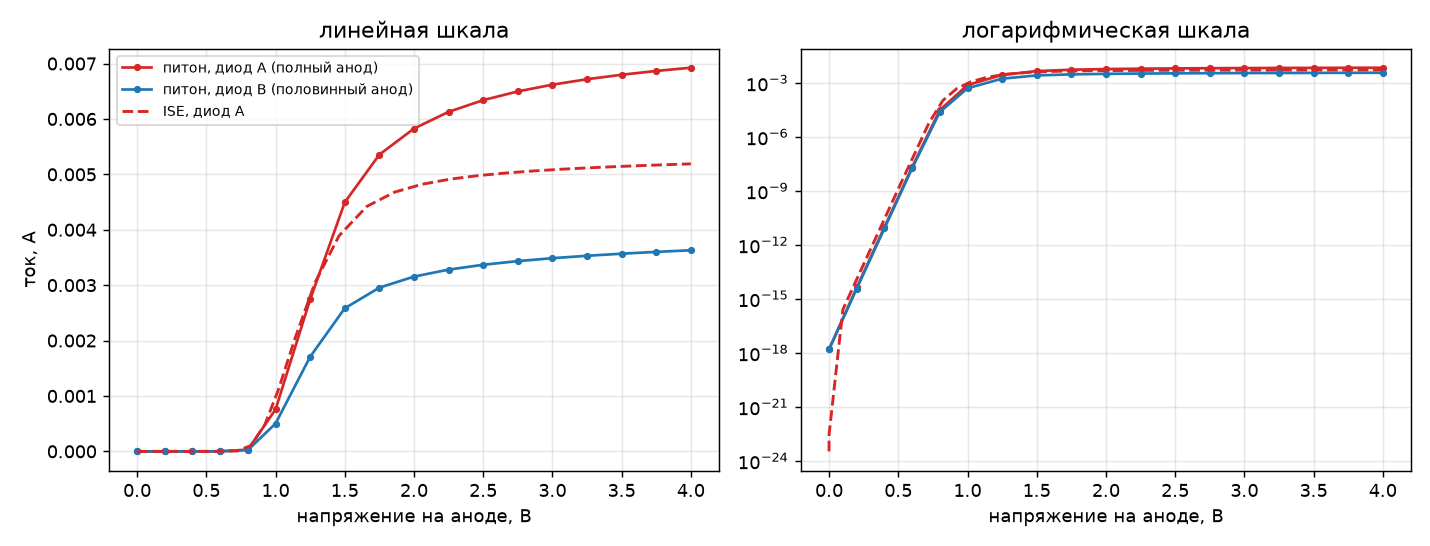
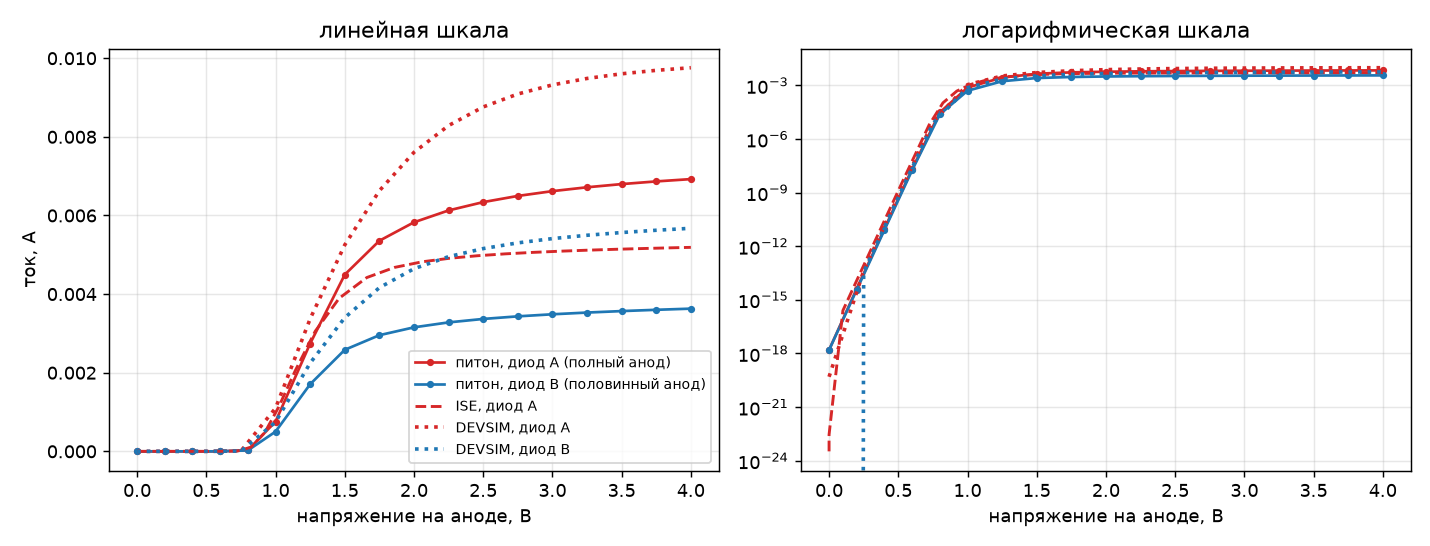
DEVSIM: подвижность Коги-Томаса с насыщением скорости по |E| на тетраэдре
Элементная модель тока (3D-аналог mos_physics), диод B сходится до 4 В.
run.py: --mobility element|field|constant, замер памяти работает и на Windows.

diff --git a/tools/dev3d.py b/tools/dev3d.py
@@ -1,5 +1,10 @@
 # -*- coding: utf-8 -*-
-"""3D-диод в DEVSIM: загрузка сетки Gmsh, легирование, равновесие, развёртка."""
+"""3D-диод в DEVSIM: загрузка сетки Gmsh, легирование, равновесие, развёртка.
+
+Подвижность — та же, что в своём решателе (dd3d.py): Коги-Томас по легированию
+и насыщение скорости по полю вдоль ребра. Стандартный simple_physics берёт
+постоянные 400/200 см2/(В*с), и ток при 4 В выходит вчетверо больше, чем у ISE.
+"""
 
 import devsim as ds
 from devsim.python_packages.simple_physics import (
@@ -12,6 +17,98 @@ DEV, REG = "diode", "si"
 SOLVER = "direct"           # "iterative" (GMRES) экономит память, но под смещением врёт
 RELERR = 1e-8               # на грубых 3D-сетках Ньютон застревает около 1e-5 — тогда ослабить
 CONTACTS = ("anode", "cathode")
+MOBILITY = "element"        # "element" — насыщение по полному |E| на тетраэдре (по умолчанию),
+                            # "field" — по проекции поля на ребро, "constant" — 400/200 из simple_physics
+VSAT = 1.07e7               # см/с
+# Коги-Томас: mu_min, mu_max, N_ref, alpha — те же числа, что в dd3d.mu_doping
+CT = {"n": (68.5, 1414.0, 9.2e16, 0.711), "p": (44.9, 470.5, 2.23e17, 0.719)}
+BETA = {"n": 2.0, "p": 1.0}
+
+
+def mobility_doping(kind):
+    """Подвижность по легированию в узлах и её среднее на ребре (edge-модель mu_dop_<kind>_e)."""
+    mn, mx, nref, a = CT[kind]
+    name = "mu_dop_" + kind
+    CreateNodeModel(DEV, REG, name, "%g + %g/(1 + pow(pow(NetDoping^2, 0.5)/%g, %g))"
+                    % (mn, mx - mn, nref, a))
+    ds.edge_from_node_model(device=DEV, region=REG, node_model=name)
+    ds.edge_model(device=DEV, region=REG, name=name + "_e",
+                  equation="0.5*(%s@n0 + %s@n1)" % (name, name))
+    return name + "_e"
+
+
+EN = ("@en0", "@en1", "@en2", "@en3")       # узлы тетраэдра в элементных моделях
+
+
+def _elem(name, expr, variables=()):
+    ds.element_model(device=DEV, region=REG, name=name, equation=expr)
+    for v in variables:
+        for e in EN:
+            ds.element_model(device=DEV, region=REG, name="%s:%s%s" % (name, v, e),
+                             equation="diff(%s, %s%s)" % (expr, v, e))
+
+
+def element_currents():
+    """Ток на элементах с насыщением скорости по полному полю.
+
+    На ребре видна только проекция поля, а рёбра тетраэдров идут под углом к току —
+    насыщение недооценивается, ток завышен. Здесь вектор поля собирается на каждом
+    тетраэдре из его рёбер, подвижность берётся от |E|, ток — тот же поток
+    Шарфеттера-Гуммеля, но элементной моделью (как mos_physics.py, только в 3D).
+    """
+    ds.element_from_edge_model(edge_model="ElectricField", device=DEV, region=REG)
+    ds.element_from_edge_model(edge_model="ElectricField", device=DEV, region=REG,
+                               derivative="Potential")
+    ds.element_model(device=DEV, region=REG, name="Emag",
+                     equation="pow(ElectricField_x^2 + ElectricField_y^2 + ElectricField_z^2 + 1, 0.5)")
+    for e in EN:
+        ds.element_model(device=DEV, region=REG, name="Emag:Potential" + e, equation=(
+            "(ElectricField_x*ElectricField_x:Potential{0} + ElectricField_y*ElectricField_y:Potential{0}"
+            " + ElectricField_z*ElectricField_z:Potential{0})/Emag").format(e))
+    for kind in "np":
+        mu0 = mobility_doping(kind)
+        if BETA[kind] == 2.0:
+            mu = "%s/pow(1 + (%s*Emag/%g)^2, 0.5)" % (mu0, mu0, VSAT)
+        else:
+            mu = "%s/(1 + %s*Emag/%g)" % (mu0, mu0, VSAT)
+        _elem("mu_%s_elem" % kind, mu, ("Potential",))
+    Jn = ("ElectronCharge*mu_n_elem*EdgeInverseLength*V_t*"
+          "kahan3(Electrons@en1*Bern01, Electrons@en1*vdiff, -Electrons@en0*Bern01)")
+    Jp = ("-ElectronCharge*mu_p_elem*EdgeInverseLength*V_t*"
+          "kahan3(Holes@en1*Bern01, -Holes@en0*Bern01, -Holes@en0*vdiff)")
+    _elem("ElectronCurrentElem", Jn, ("Electrons", "Holes", "Potential"))
+    _elem("HoleCurrentElem", Jp, ("Electrons", "Holes", "Potential"))
+    # те же уравнения непрерывности, но поток берётся с элементов
+    ds.equation(device=DEV, region=REG, name="ElectronContinuityEquation", variable_name="Electrons",
+                time_node_model="NCharge", node_model="ElectronGeneration",
+                element_model="ElectronCurrentElem", variable_update="positive")
+    ds.equation(device=DEV, region=REG, name="HoleContinuityEquation", variable_name="Holes",
+                time_node_model="PCharge", node_model="HoleGeneration",
+                element_model="HoleCurrentElem", variable_update="positive")
+    for c in CONTACTS:
+        ds.contact_equation(device=DEV, contact=c, name="ElectronContinuityEquation",
+                            node_model="%snodeelectrons" % c, element_current_model="ElectronCurrentElem")
+        ds.contact_equation(device=DEV, contact=c, name="HoleContinuityEquation",
+                            node_model="%snodeholes" % c, element_current_model="HoleCurrentElem")
+
+
+def mobility_expr(kind):
+    """Подвижность на ребре как строка-выражение для DEVSIM.
+
+    Подставляется прямо в формулу тока Шарфеттера-Гуммеля, поэтому производные
+    по потенциалу DEVSIM берёт сам, символьно, и Ньютон остаётся точным.
+    """
+    mn, mx, nref, a = CT[kind]
+    name = "mu_dop_" + kind
+    CreateNodeModel(DEV, REG, name, "%g + %g/(1 + pow(pow(NetDoping^2, 0.5)/%g, %g))"
+                    % (mn, mx - mn, nref, a))
+    ds.edge_from_node_model(device=DEV, region=REG, node_model=name)
+    mu0 = "(0.5*(%s@n0 + %s@n1))" % (name, name)
+    e2 = "(((Potential@n0 - Potential@n1)*EdgeInverseLength)^2)"
+    if BETA[kind] == 2.0:
+        return "(%s/pow(1 + %s^2*%s/%g, 0.5))" % (mu0, mu0, e2, VSAT ** 2)
+    # beta = 1: |E| сглажен на 1 В/см, чтобы производная в нуле поля была конечной
+    return "(%s/(1 + %s*pow(%s + 1, 0.5)/%g))" % (mu0, mu0, e2, VSAT)
 
 
 def load(msh):
@@ -42,9 +139,14 @@ def drift_diffusion():
     CreateSolution(DEV, REG, "Holes")
     ds.set_node_values(device=DEV, region=REG, name="Electrons", init_from="IntrinsicElectrons")
     ds.set_node_values(device=DEV, region=REG, name="Holes", init_from="IntrinsicHoles")
-    CreateSiliconDriftDiffusion(DEV, REG)
+    if MOBILITY == "field":
+        CreateSiliconDriftDiffusion(DEV, REG, mu_n=mobility_expr("n"), mu_p=mobility_expr("p"))
+    else:
+        CreateSiliconDriftDiffusion(DEV, REG)
     for c in CONTACTS:
         CreateSiliconDriftDiffusionAtContact(DEV, REG, c)
+    if MOBILITY == "element":
+        element_currents()
     ds.solve(type="dc", solver_type=SOLVER, absolute_error=1e10, relative_error=RELERR, maximum_iterations=40)
 
 

diff --git a/Lab3_diode_3D/devsim/run.py b/Lab3_diode_3D/devsim/run.py
@@ -4,17 +4,20 @@
     python run.py A              # диод A, мелкая сетка (~104 тыс. узлов)
     python run.py B              # диод B
     python run.py A --scale 1.5  # сетка в 1.5 раза крупнее (~34 тыс. узлов)
+    python run.py A --scale 2 --relerr 1e-5   # ~15 тыс. узлов, ~2 ГБ — проверка на ноутбуке
 
 Что делает: строит сетку (tools/mesh3d.py, кэшируется в mesh_<диод>_<scale>.msh),
 решает равновесие, включает дрейф-диффузию и разворачивает анод до --vmax.
-Пишет iv_<диод>_<scale>.json (V, I) и поле diode_<диод>_<scale>.tec (Tecplot ASCII).
+Пишет iv_<диод>_<scale>_<подвижность>.json (V, I) и поле diode_*.tec (Tecplot ASCII).
+Подвижность по умолчанию — element: Коги-Томас + насыщение скорости по полному |E|
+на тетраэдре (см. tools/dev3d.py, почему не по ребру).
 
 Память — главное ограничение. Прямой решатель (UMFPACK) обязателен: итерационный
 GMRES под смещением выдаёт «сходимость» на неправильном решении. Замеры на M1:
 34 тыс. узлов — около 2.6 ГБ, 104 тыс. — оценка около 10 ГБ. На 8 ГБ мелкая
 сетка не помещается, считать на машине с 16–32 ГБ. Видеокарта не используется.
 """
-import argparse, json, os, sys, time, resource
+import argparse, json, os, sys, time
 
 HERE = os.path.dirname(os.path.abspath(__file__))
 sys.path.insert(0, os.path.join(HERE, "..", "..", "tools"))
@@ -25,6 +28,24 @@ ANODE = {"A": (0.0, 1.0, 1.0, 2.0), "B": (0.5, 1.0, 1.0, 2.0)}
 
 
 def peak_mb():
+    """Пиковая память процесса, МБ. На Windows модуля resource нет — через WinAPI."""
+    if sys.platform == "win32":
+        import ctypes
+        from ctypes import wintypes
+
+        class PMC(ctypes.Structure):
+            _fields_ = [("cb", wintypes.DWORD), ("PageFaultCount", wintypes.DWORD),
+                        ("PeakWorkingSetSize", ctypes.c_size_t), ("WorkingSetSize", ctypes.c_size_t),
+                        ("QuotaPeakPagedPoolUsage", ctypes.c_size_t), ("QuotaPagedPoolUsage", ctypes.c_size_t),
+                        ("QuotaPeakNonPagedPoolUsage", ctypes.c_size_t), ("QuotaNonPagedPoolUsage", ctypes.c_size_t),
+                        ("PagefileUsage", ctypes.c_size_t), ("PeakPagefileUsage", ctypes.c_size_t)]
+        k32, psapi = ctypes.WinDLL("kernel32"), ctypes.WinDLL("psapi")
+        k32.GetCurrentProcess.restype = wintypes.HANDLE
+        psapi.GetProcessMemoryInfo.argtypes = [wintypes.HANDLE, ctypes.POINTER(PMC), wintypes.DWORD]
+        c = PMC(); c.cb = ctypes.sizeof(PMC)
+        psapi.GetProcessMemoryInfo(k32.GetCurrentProcess(), ctypes.byref(c), c.cb)
+        return c.PeakWorkingSetSize / 1024 / 1024
+    import resource
     r = resource.getrusage(resource.RUSAGE_SELF).ru_maxrss
     return r / 1024 / 1024 if sys.platform == "darwin" else r / 1024
 
@@ -36,10 +57,14 @@ def main():
     ap.add_argument("--vmax", type=float, default=4.0)
     ap.add_argument("--step", type=float, default=0.1)
     ap.add_argument("--solver", default="direct", choices=["direct", "iterative"])
+    ap.add_argument("--mobility", default="element", choices=["element", "field", "constant"],
+                    help="Коги-Томас + насыщение скорости: element — по |E| на тетраэдре, "
+                         "field — по проекции на ребро; constant — 400/200")
     ap.add_argument("--relerr", type=float, default=1e-8, help="допуск Ньютона; на грубых сетках 1e-5")
     a = ap.parse_args()
 
     tag = "%s_%g" % (a.diode, a.scale)
+    mtag = "%s_%s" % (tag, a.mobility)
     msh = os.path.join(HERE, "mesh_%s.msh" % tag)
     if not os.path.exists(msh):
         k = a.scale
@@ -49,7 +74,7 @@ def main():
 
     import devsim as ds
     import dev3d
-    dev3d.SOLVER, dev3d.RELERR = a.solver, a.relerr
+    dev3d.SOLVER, dev3d.RELERR, dev3d.MOBILITY = a.solver, a.relerr, a.mobility
     t0 = time.time()
     dev3d.load(msh)
     dev3d.equilibrium()
@@ -57,10 +82,10 @@ def main():
     dev3d.drift_diffusion()
     print("дрейф-диффузия при 0 В: %.0f с, память %.0f МБ" % (time.time() - t0, peak_mb()), flush=True)
 
-    out = os.path.join(HERE, "iv_%s.json" % tag)
+    out = os.path.join(HERE, "iv_%s.json" % mtag)
     iv = dev3d.ramp(a.vmax, a.step, log=lambda s: print(s, flush=True))
     json.dump(iv, open(out, "w"))
-    ds.write_devices(file=os.path.join(HERE, "diode_%s.tec" % tag), type="tecplot")
+    ds.write_devices(file=os.path.join(HERE, "diode_%s.tec" % mtag), type="tecplot")
     print("готово за %.0f с, пиковая память %.0f МБ, ВАХ в %s"
           % (time.time() - t0, peak_mb(), out), flush=True)
 

diff --git a/Lab3_diode_3D/python/compare.py b/Lab3_diode_3D/python/compare.py
@@ -32,6 +32,13 @@ for tag, col, style in (("A", "tab:red", "--"), ("B", "tab:blue", "--")):
         for a in ax: a.plot(V, I, style, color=col, lw=1.6, label="ISE, диод " + tag)
     except Exception: pass
 
+for tag, col in (("A", "tab:red"), ("B", "tab:blue")):
+    p = os.path.join(HERE, "..", "devsim", "iv_%s_2_element.json" % tag)
+    if not os.path.exists(p): continue
+    import json
+    VI = np.array(json.load(open(p)))
+    for a in ax: a.plot(VI[:, 0], VI[:, 1], ":", color=col, lw=2, label="DEVSIM, диод " + tag)
+
 ax[0].set_xlabel("напряжение на аноде, В"); ax[0].set_ylabel("ток, А")
 ax[0].set_title("линейная шкала"); ax[0].grid(alpha=.3); ax[0].legend(fontsize=8)
 ax[1].set_yscale("log"); ax[1].set_xlabel("напряжение на аноде, В")

diff --git a/README.md b/README.md
@@ -346,37 +346,70 @@ python sweep.py "[0,1,1,2]"   A 10 14 9 4
 python sweep.py "[0.5,1,1,2]" B 10 14 9 4
 ```
 
-### DEVSIM: заготовка под мелкую сетку
+### DEVSIM: неструктурированная сетка
 
-Следующий шаг — тот же диод на неструктурированной сетке с настоящим
-сгущением к переходу и кромкам анода. Для этого взяты открытые пакеты
+Третий независимый расчёт — тот же диод на неструктурированной сетке с
+настоящим сгущением к переходу и кромкам анода. Для этого взяты открытые пакеты
 [DEVSIM](https://devsim.org) (решатель методом конечных объёмов, Python) и
 [Gmsh](https://gmsh.info) (сетка). Переход и анод встроены в геометрию как
 поверхности, поэтому ступенька легирования и край контакта ложатся точно на
 узлы ([tools/mesh3d.py](tools/mesh3d.py), [tools/dev3d.py](tools/dev3d.py)).
 
+**Подвижность — та же, что в своём решателе**: Коги — Томас по легированию и
+насыщение скорости. Стандартный модуль DEVSIM `simple_physics` берёт постоянные
+400/200 см²/(В·с), и ток при 4 В выходит 21.5 мА — вчетверо больше, чем у ISE.
+
+**Насыщение считается по полному полю на тетраэдре, а не по ребру.** Ток в
+методе конечных объёмов течёт по рёбрам, и проще всего брать поле как проекцию
+на ребро. На тензорной сетке своего решателя это честно — рёбра идут вдоль тока.
+А у тетраэдров рёбра торчат под углом, проекция меньше настоящего |E|, насыщение
+недооценивается, и ток завышен. Поэтому вектор поля собирается на каждом
+тетраэдре из его шести рёбер (`element_from_edge_model`), подвижность берётся
+от |E|, а ток — тот же поток Шарфеттера — Гуммеля, но элементной моделью с
+производными по всем четырём узлам. Так в DEVSIM сделан `mos_physics.py`,
+только там 2D.
+
+| диод A, ток при 4 В | 8.6 тыс. узлов | 15.5 тыс. узлов |
+|---|---|---|
+| постоянная подвижность | 21.5 мА | — |
+| насыщение по проекции на ребро | 12.1 мА | 11.4 мА |
+| **насыщение по \|E\| на тетраэдре** | 10.4 мА | **9.8 мА** |
+| для сравнения: ISE / свой решатель | 5.19 / 6.92 мА | |
+
+При сгущении сетки ток сходится сверху, примерно на 6% за шаг; где он
+остановится, покажет мелкая сетка. **Диод B в DEVSIM сходится до 4 В** — то,
+чего не удалось добиться от ISE. Контраст между диодами на сетке 15 тыс. узлов:
+
+| | DEVSIM | свой решатель | эталон |
+|---|---|---|---|
+| 2 В | B ниже A на 39% | 46% | 34% |
+| 3 В | B ниже A на **42%** | **47%** | **45%** |
+
+Кривые DEVSIM добавлены пунктиром на
+[график сравнения ВАХ](Lab3_diode_3D/results/вах_питон_против_ISE.png).
+ВАХ: [devsim/iv_A_2_element.json](Lab3_diode_3D/devsim/iv_A_2_element.json),
+[devsim/iv_B_2_element.json](Lab3_diode_3D/devsim/iv_B_2_element.json).
+
 Запуск одной командой — [devsim/run.py](Lab3_diode_3D/devsim/run.py):
 
 ```bash
 cd Lab3_diode_3D/devsim
-python run.py A                # мелкая сетка, около 104 тыс. узлов
-python run.py B
-python run.py A --scale 2.5 --relerr 1e-5   # грубая, около 8 тыс. узлов — проверка, что всё работает
+python run.py A --scale 2 --relerr 1e-5   # ~15 тыс. узлов, ~2 ГБ, 7 минут на M1
+python run.py A --scale 1.5               # ~34 тыс. узлов
+python run.py A                           # мелкая, ~104 тыс. узлов
+python run.py B                           # то же для диода B
 ```
 
 **Упор в память.** Нужен прямой решатель: итерационный GMRES под смещением
-сообщает о сходимости на неправильном решении. Прямой (UMFPACK) на 34 тыс. узлов
-занимает около 2.6 ГБ, на 104 тыс. — по оценке около 10 ГБ. На маке с 8 ГБ
-мелкая сетка не помещается, её надо считать на машине с 16–32 ГБ ОЗУ.
-Видеокарта DEVSIM не нужна, считается на процессоре.
+сообщает о сходимости на неправильном решении. Элементная модель тяжелее
+рёберной: 1.8–2.0 ГБ на 15 тыс. узлов. Мелкая сетка (104 тыс.) на маке с 8 ГБ не
+помещается — её считать на машине с 32 ГБ. Видеокарта DEVSIM не нужна.
 
-**Состояние честно:** на грубой сетке (8 тыс. узлов) диод A проходит до 4 В,
-но ток выходит **21.5 мА — в 4 раза больше, чем у ISE**. Причина известна:
-стандартный модуль `simple_physics` берёт постоянную подвижность, без
-зависимости от легирования и без насыщения скорости. Чтобы сравнивать
-с ISE и своим решателем, сначала нужно перенести в DEVSIM ту же модель
-подвижности, что в `dd3d.py`. Диод B на грубой сетке не сходится уже при 0 В —
-слишком грубо у края анода.
+**Допуск Ньютона.** На грубых сетках Ньютон при 0 В застревает около 1e-5 —
+тогда `--relerr 1e-5`. Под смещением он сходится квадратично, до 1e-11. Но при
+таком допуске ток на самых малых смещениях (меньше ~0.2 В, где он
+10<sup>−15</sup> А) — разность больших потоков основных носителей и тонет в
+погрешности; на полке это не сказывается.
 
 ## Лабораторные 4 и 5
 
